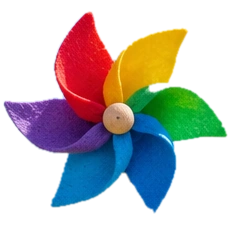
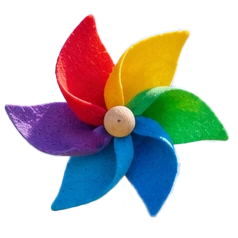
Scène soleil : image sans moulinet et moulinet détouré préparés sous Photoshop
Claude-Session: https://claude.ai/code/session_014kpAsH4ZdMW1fcr1txRMCg

diff --git a/src/scene/photoScenes.ts b/src/scene/photoScenes.ts
@@ -60,9 +60,9 @@ export const PHOTO_SCENES: PhotoScene[] = [
     subjectY: 0.5,
     spinner: {
       file: `${PHOTO_BASE}/soleil-moulinet.webp`,
-      cx: 386 / 1536,
-      cy: 250 / 1024,
-      widthFrac: 232 / 1536,
+      cx: 390 / 1536,
+      cy: 256 / 1024,
+      widthFrac: 238 / 1536,
       displaySpin: 2.5,
       // ~10 tours/s : figé au 1/1000, filé visible au 1/60, disque flou au 1/15.
       realSpin: 60
